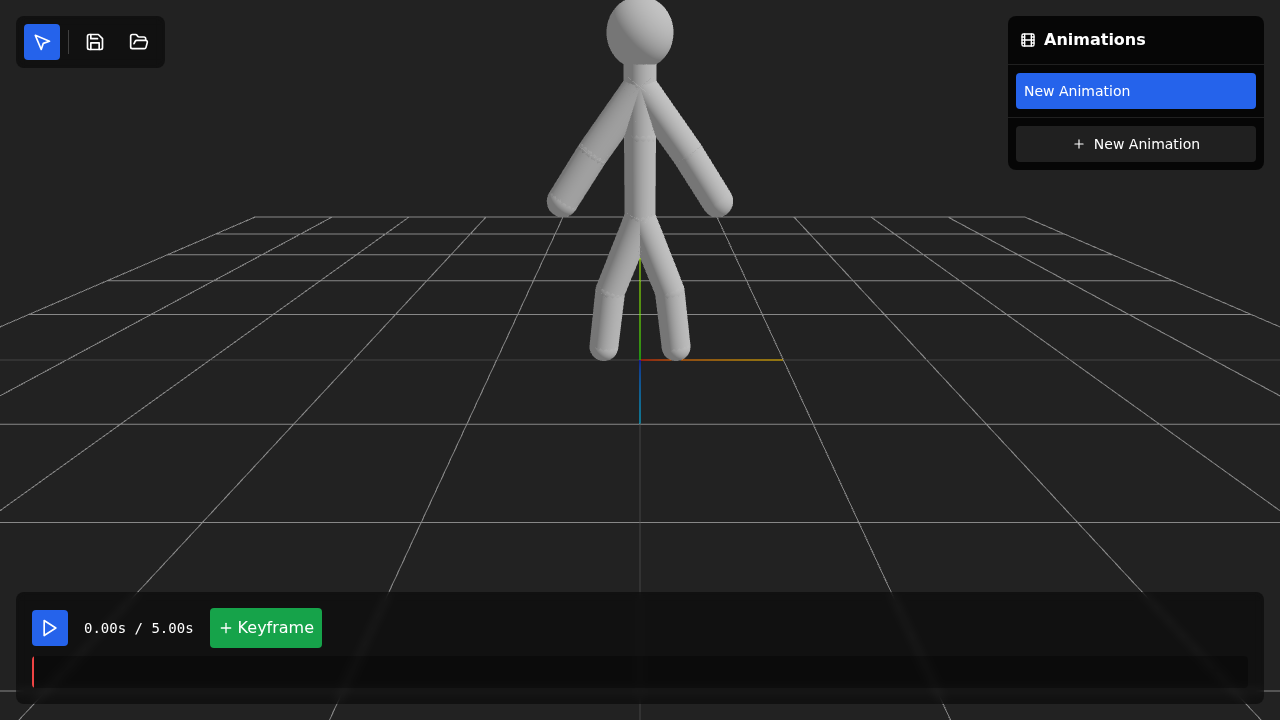
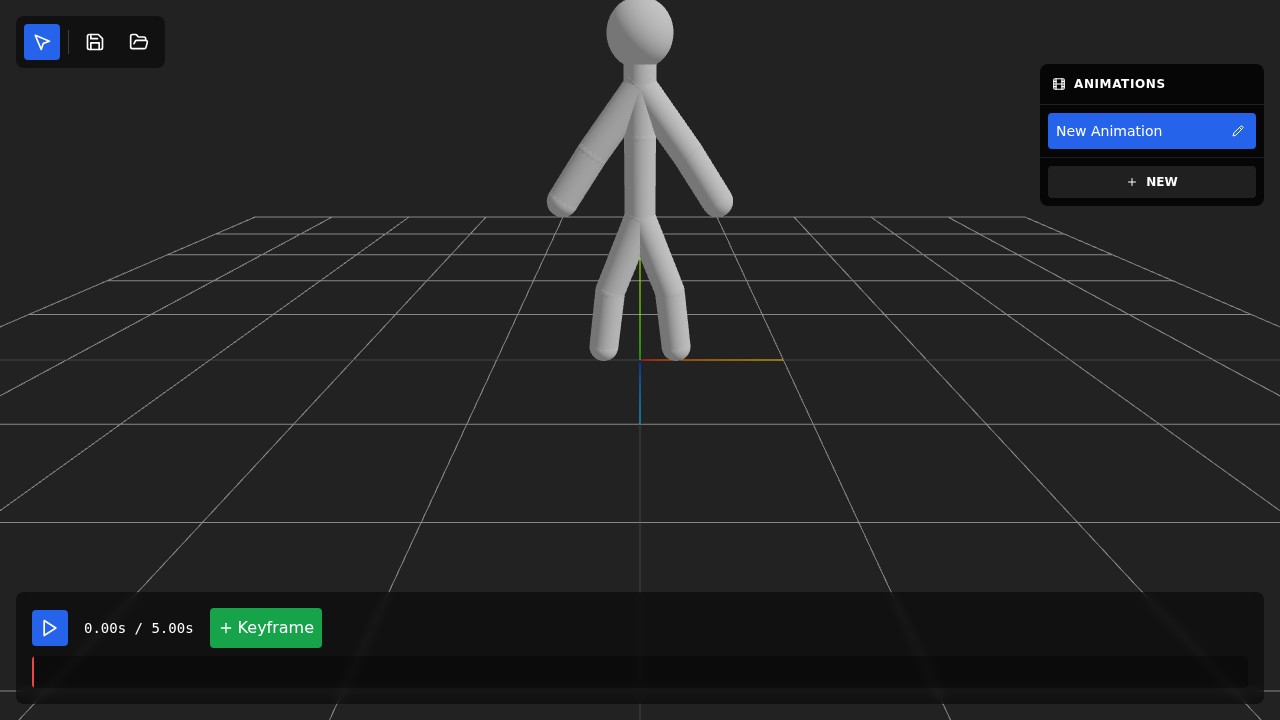
Fix Editor UI Interactions and Layout
- Move animation list sidebar down (top-16) and reduce size (w-56, max-h-40%) to improve visibility of top controls
- Fix animation list interaction: Clicking an item now selects (plays) it; added a dedicated "Rename" (pencil) button for editing
- Update 3D renderer to ensure playback syncs with the active clip from the store playlist
- Improve timeline visualizer logic to accurately reflect the active animation's duration

Changed region(s): [[0.7812, 0.0, 1.0, 0.3056]]

diff --git a/src/components/EditorUI.tsx b/src/components/EditorUI.tsx
@@ -1,6 +1,7 @@
 import { useStickmanStore } from '../store/useStickmanStore';
-import { Play, Pause, Save, FolderOpen, Plus, MousePointer2, Film } from 'lucide-react';
+import { Play, Pause, Save, FolderOpen, Plus, MousePointer2, Film, Pencil, Check } from 'lucide-react';
 import clsx from 'clsx';
+import { useState } from 'react';
 
 export const EditorUI = () => {
   const {
@@ -10,6 +11,8 @@ export const EditorUI = () => {
       clips, activeClipId, setActiveClip, addClip, updateClipName,
       saveProject, loadProject
   } = useStickmanStore();
+
+  const [renamingId, setRenamingId] = useState<string | null>(null);
 
   const activeClip = clips.find(c => c.id === activeClipId) || clips[0];
 
@@ -62,35 +65,66 @@ export const EditorUI = () => {
       </div>
 
       {/* Right Sidebar: Animations List */}
-      <div className="absolute top-4 right-4 w-64 bg-black/80 rounded-lg backdrop-blur-md text-white pointer-events-auto flex flex-col max-h-[50%]">
-         <div className="p-3 border-b border-white/10 font-semibold flex items-center gap-2">
-            <Film size={16} /> Animations
+      <div className="absolute top-16 right-4 w-56 bg-black/80 rounded-lg backdrop-blur-md text-white pointer-events-auto flex flex-col max-h-[40%]">
+         <div className="p-3 border-b border-white/10 font-semibold flex items-center gap-2 text-xs uppercase tracking-wider">
+            <Film size={14} /> Animations
          </div>
          <div className="flex-1 overflow-y-auto p-2 space-y-1">
             {clips.map(clip => (
                 <div
                     key={clip.id}
                     className={clsx(
-                        "p-2 rounded cursor-pointer text-sm flex items-center group",
+                        "p-2 rounded cursor-pointer text-sm flex items-center justify-between group",
                         clip.id === activeClipId ? "bg-blue-600" : "hover:bg-white/10"
                     )}
                     onClick={() => setActiveClip(clip.id)}
                 >
-                    <input
-                        className="bg-transparent border-none outline-none w-full cursor-pointer"
-                        value={clip.name}
-                        onChange={(e) => updateClipName(clip.id, e.target.value)}
-                        onClick={(e) => e.stopPropagation()} // Allow typing without re-triggering select
-                    />
+                    {renamingId === clip.id ? (
+                        <div className="flex items-center gap-1 w-full">
+                            <input
+                                className="bg-black/40 border border-white/20 rounded px-1 py-0.5 w-full text-xs"
+                                value={clip.name}
+                                autoFocus
+                                onChange={(e) => updateClipName(clip.id, e.target.value)}
+                                onClick={(e) => e.stopPropagation()}
+                                onKeyDown={(e) => {
+                                    if (e.key === 'Enter') setRenamingId(null);
+                                }}
+                            />
+                            <button
+                                className="p-1 hover:bg-white/20 rounded"
+                                onClick={(e) => {
+                                    e.stopPropagation();
+                                    setRenamingId(null);
+                                }}
+                            >
+                                <Check size={12} />
+                            </button>
+                        </div>
+                    ) : (
+                        <>
+                            <span className="truncate flex-1">{clip.name}</span>
+                            <button
+                                className={clsx("p-1 hover:bg-white/20 rounded opacity-0 group-hover:opacity-100 transition-opacity", clip.id === activeClipId && "opacity-100")}
+                                onClick={(e) => {
+                                    e.stopPropagation();
+                                    setRenamingId(clip.id);
+                                }}
+                                title="Rename"
+                            >
+                                <Pencil size={12} />
+                            </button>
+                        </>
+                    )}
                 </div>
             ))}
          </div>
          <div className="p-2 border-t border-white/10">
              <button
                 onClick={addClip}
-                className="w-full py-2 flex items-center justify-center gap-2 bg-white/10 hover:bg-white/20 rounded text-sm transition-colors"
+                className="w-full py-2 flex items-center justify-center gap-2 bg-white/10 hover:bg-white/20 rounded text-xs uppercase font-bold transition-colors"
              >
-                 <Plus size={14} /> New Animation
+                 <Plus size={12} /> New
              </button>
          </div>
       </div>
